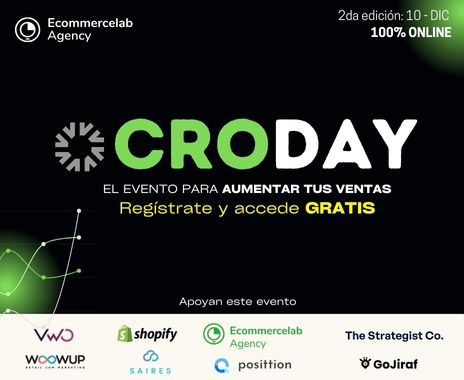
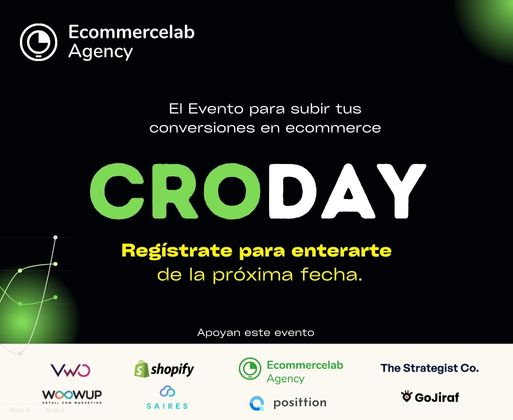
Primer actualizacion post evento

diff --git a/index.html b/index.html
@@ -15,7 +15,7 @@
     <link rel="preconnect" href="https://fonts.googleapis.com">
     <link rel="preconnect" href="https://fonts.gstatic.com" crossorigin>
     <link href="https://fonts.googleapis.com/css2?family=Lato:ital,wght@0,100;0,300;0,400;0,700;0,900;1,100;1,300;1,400;1,700;1,900&display=swap" rel="stylesheet">
-    <meta property="og:title" content="CRODAY - El evento para subir conversiones en Ecommerce">
+    <meta property="og:title" content="CRODAY 2024 | Optimiza Conversiones y Domina el A/B Testing en Ecommerce">
     <meta property="og:description" content="Llegó CRODAY 🎯: El evento de Iberoamérica para SUBIR CONVERSIONES EN ECOMMERCE.
     ¿Ya reservaste tu lugar y el de tu equipo?">
     <meta property="og:image" content="https://s3.sa-east-1.amazonaws.com/croday.org/img/Banner_mobile.jpg"/>
@@ -30,8 +30,8 @@
     height="0" width="0" style="display:none;visibility:hidden"></iframe></noscript>
     <!-- End Google Tag Manager (noscript) -->
     <header>
-        <a href="https://ecommercelab.agency/" target="_blank">
-        <img src="img/Banner_desktop.png" alt="banner CRODAY" class="bannerDesktop">
+        <a href="https://ecommercelab.agency/?utm_source=CRODAY&utm_medium=CRODAY&utm_campaign=CRODAY&utm_id=CRODAY&utm_term=CRODAY&utm_content=CRODAY" target="_blank">
+        <img src="img/Banner_desktop.jpg" alt="banner CRODAY" class="bannerDesktop">
         <img src="img/Banner_mobile.jpg" alt="banner CRODAY" class="bannerMobile">
         </a>
     </header>
@@ -85,15 +85,15 @@
         <section class="formulario">
             
                 <form action="" method="post" id="form">
-                    <h2>Reserva tu lugar</h2>
+                    <h2>Suscríbete para enterarte del próximo evento</h2>
                     <input type="text" name="email" id="email" placeholder="Tu email">
                     <span class="error" id="error"></span>
-                    <button type="submit">Regístrate Gratis</button>
+                    <button type="submit">Click Aquí</button>
                     <span class="tyc">* Al registrarse, los participantes aceptan estos <a href="/views/tyc.html" class="tycLink" target="_blank">términos y condiciones.</a></span>
                 </form>
         </section>
         <section class="text">
-            <h2>Llega el CRO DAY, el evento de optimización de conversiones dirigido a Directores de Retail, Equipos de Ecommerce y Dueños de empresas.</h2> 
+            <h1>Llega el CRO DAY, el evento de optimización de conversiones dirigido a Directores de Retail, Equipos de Ecommerce y Dueños de empresas.</h1> 
         <div id="seccionOradores"></div>
         </section>
         
@@ -101,16 +101,49 @@
             <h2>Oradores</h2>
             <div class="oradoresArt">
                 <article>
-                    <a href="https://www.linkedin.com/in/%C3%B3scar-garnica-098754187/?originalSubdomain=mx" target="_blank">
-                        <img src="img/speakers/Avatar-Oscar_GarnicaMotorola.CRODAY.png" alt="avatar Oscar Garnica">
+                    <a href="https://www.linkedin.com/in/rodolfoguardia/?originalSubdomain=ar" target="_blank">
+                        <img src="img/speakers/Avatar-Rodolfo.Guardia.CRODAY.Ecommercelab.png" alt="avatar Rodolfo Guardia">
                         <div>
-                            <h3 class="ocultarLinkedin">Oscar Garnica <br><span>Motorola Mobility (a Lenovo Company)</span></h3>
+                            <h3 class="ocultarLinkedin">Rodolfo Guardia <br><span>EcommerceLab Agency</span></h3>
+                            <br>
                             <br>
                             <h3 class="verLinkedin gradient-text">Ver Linkedin</h3>
                         </div>
                     </a>
                 </article>
-                
+                <article>
+                    <a href="https://www.linkedin.com/in/drieraocampos/" target="_blank">
+                        <img src="img/speakers/avatar_delfina_ocampos_2.jpg" alt="avatar Delfina Riera">
+                        <div>
+                            <h3 class="ocultarLinkedin">Delfina Riera Ocampos <br><span>EcommerceLab Agency</span></h3>
+                            <br>
+                            <br>
+                            <h3 class="verLinkedin gradient-text">Ver Linkedin</h3>
+                        </div>
+                    </a>
+                </article>
+                <article>
+                    <a href="https://www.linkedin.com/in/silvajuan1989/" target="_blank">
+                        <img src="img/speakers/Avatar-Juan-Silva-EcommerceLab.Agency.CRODAY.png" alt="avatar Juan Pablo Silva">
+                        <div>
+                            <h3 class="ocultarLinkedin">Juan Pablo Silva <br> <span>EcommerceLab Agency</span></h3>
+                            <br>
+                            <br>
+                            <h3 class="verLinkedin gradient-text">Ver Linkedin</h3>
+                        </div>
+                    </a>
+                </article>
+                <article>
+                    <a href="https://www.linkedin.com/in/tom%C3%A1s-caia-305b38204/?originalSubdomain=ar" target="_blank">
+                        <img src="img/speakers/Avatar-Tomas-Caia.CRODAY.Google.png" alt="avatar Tomas Caia">
+                        <div>
+                            <h3 class="ocultarLinkedin">Tomas Caia <br><span>Google</span></h3>
+                            <br>
+                            <br>
+                            <h3 class="verLinkedin gradient-text">Ver Linkedin</h3>
+                        </div>
+                    </a>
+                </article>
                 <article>
                     <a href="https://www.linkedin.com/in/maria-sol-sanchez-souto-47b69652/?originalSubdomain=ar" target="_blank">
                         <img src="img/speakers/Avatar-Sol.Sánchez_WoowUp.CRODAY.png" alt="avatar Sol Sanchez">
@@ -177,50 +210,19 @@
                         </div>
                     </a>
                 </article>
+               
                 <article>
-                    <a href="https://www.linkedin.com/in/tom%C3%A1s-caia-305b38204/?originalSubdomain=ar" target="_blank">
-                        <img src="img/speakers/Avatar-Tomas-Caia.CRODAY.Google.png" alt="avatar Tomas Caia">
+                    <a href="https://www.linkedin.com/in/%C3%B3scar-garnica-098754187/?originalSubdomain=mx" target="_blank">
+                        <img src="img/speakers/Avatar-Oscar_GarnicaMotorola.CRODAY.png" alt="avatar Oscar Garnica">
                         <div>
-                            <h3 class="ocultarLinkedin">Tomas Caia <br><span>Google</span></h3>
-                            <br>
+                            <h3 class="ocultarLinkedin">Oscar Garnica <br><span>Motorola Mobility (a Lenovo Company)</span></h3>
                             <br>
                             <h3 class="verLinkedin gradient-text">Ver Linkedin</h3>
                         </div>
                     </a>
                 </article>
-                <article>
-                    <a href="https://www.linkedin.com/in/rodolfoguardia/?originalSubdomain=ar" target="_blank">
-                        <img src="img/speakers/Avatar-Rodolfo.Guardia.CRODAY.Ecommercelab.png" alt="avatar Rodolfo Guardia">
-                        <div>
-                            <h3 class="ocultarLinkedin">Rodolfo Guardia <br><span>EcommerceLab Agency</span></h3>
-                            <br>
-                            <br>
-                            <h3 class="verLinkedin gradient-text">Ver Linkedin</h3>
-                        </div>
-                    </a>
-                </article>
-                <article>
-                    <a href="https://www.linkedin.com/in/silvajuan1989/" target="_blank">
-                        <img src="img/speakers/Avatar-Juan-Silva-EcommerceLab.Agency.CRODAY.png" alt="avatar Juan Pablo Silva">
-                        <div>
-                            <h3 class="ocultarLinkedin">Juan Pablo Silva <br> <span>EcommerceLab Agency</span></h3>
-                            <br>
-                            <br>
-                            <h3 class="verLinkedin gradient-text">Ver Linkedin</h3>
-                        </div>
-                    </a>
-                </article>
-                <article>
-                    <a href="https://www.linkedin.com/in/drieraocampos/" target="_blank">
-                        <img src="img/speakers/avatar_delfina_ocampos_2.jpg" alt="avatar Delfina Riera">
-                        <div>
-                            <h3 class="ocultarLinkedin">Delfina Riera Ocampos <br><span>EcommerceLab Agency</span></h3>
-                            <br>
-                            <br>
-                            <h3 class="verLinkedin gradient-text">Ver Linkedin</h3>
-                        </div>
-                    </a>
-                </article>
+                
+                
             </div>
             
         </section>
@@ -359,14 +361,14 @@
         </section>
     </main>
     <footer>
-        <a target="_blank" href="https://ecommercelab.agency/"><img src="img/Logos/EcommerceLab.Agency logo.png" alt="logo EcommerceLab Agency"></a>
-        <a target="_blank" href=""><img src="/img/Logos/GoJiraf_Logo.png" alt="Logo GoJiraf"></a>
-        <a target="_blank" href=""><img src="/img/Logos/Posittion_logo.png" alt="Logo Position"></a>
-        <a target="_blank" href=""><img src="/img/Logos/Saires_Logo.png" alt="Logo Saires"></a>
-        <a target="_blank" href=""><img src="/img/Logos/Shopify_Logo.png" alt="Logo Shopify"></a>
-        <a target="_blank" href=""><img src="/img/Logos/The_Strategist_Logo.png" alt="Logo The Strategist"></a>
-        <a target="_blank" href=""><img src="/img/Logos/VWO_Logo.png" alt="Logo VWO"></a>
-        <a target="_blank" href=""><img src="/img/Logos/WoowUp_Logo.png" alt="Logo WoowUp"></a>
+        <a target="_blank" href="https://ecommercelab.agency/?utm_source=CRODAY&utm_medium=CRODAY&utm_campaign=CRODAY&utm_id=CRODAY&utm_term=CRODAY&utm_content=CRODAY"><img src="img/Logos/EcommerceLab.Agency logo.png" alt="logo EcommerceLab Agency"></a>
+        <a target="_blank" rel="nofollow" href="https://gojiraf.ai/"><img src="/img/Logos/GoJiraf_Logo.png" alt="Logo GoJiraf"></a>
+        <a target="_blank" rel="nofollow" href=""><img src="/img/Logos/Posittion_logo.png" alt="Logo Position"></a>
+        <a target="_blank" rel="nofollow" href=""><img src="/img/Logos/Saires_Logo.png" alt="Logo Saires"></a>
+        <a target="_blank" rel="nofollow" href=""><img src="/img/Logos/Shopify_Logo.png" alt="Logo Shopify"></a>
+        <a target="_blank" rel="nofollow" href=""><img src="/img/Logos/The_Strategist_Logo.png" alt="Logo The Strategist"></a>
+        <a target="_blank" rel="nofollow" href=""><img src="/img/Logos/VWO_Logo.png" alt="Logo VWO"></a>
+        <a target="_blank" rel="nofollow" href=""><img src="/img/Logos/WoowUp_Logo.png" alt="Logo WoowUp"></a>
     </footer>
 
     <script src="js/sweetalert2.min.js"></script>

diff --git a/views/tyc.html b/views/tyc.html
@@ -21,7 +21,7 @@
 <body>
     <header>
         <a href="../index.html">
-        <img src="../img/Banner_desktop.png" alt="banner CRODAY" class="bannerDesktop">
+        <img src="../img/Banner_desktop.jpg" alt="banner CRODAY" class="bannerDesktop">
         <img src="../img/Banner_mobile.jpg" alt="banner CRODAY" class="bannerMobile">
         </a>  
     </header>
@@ -48,14 +48,14 @@
     
     </main>
     <footer>
-        <img src="../img/Logos/EcommerceLab.Agency logo.png" alt="logo EcommerceLab Agency">
-        <img src="../img/Logos/GoJiraf_Logo.png" alt="Logo GoJiraf">
-        <img src="../img/Logos/Posittion_logo.png" alt="Logo Position">
-        <img src="../img/Logos/Saires_Logo.png" alt="Logo Saires">
-        <img src="../img/Logos/Shopify_Logo.png" alt="Logo Shopify">
-        <img src="../img/Logos/The_Strategist_Logo.png" alt="Logo The Strategist">
-        <img src="../img/Logos/VWO_Logo.png" alt="Logo VWO">
-        <img src="../img/Logos/WoowUp_Logo.png" alt="Logo WoowUp">
+        <a href="https://ecommercelab.agency/?utm_source=CRODAY&utm_medium=CRODAY&utm_campaign=CRODAY&utm_id=CRODAY&utm_term=CRODAY&utm_content=CRODAY" target="_blank"><img src="../img/Logos/EcommerceLab.Agency logo.png" alt="logo EcommerceLab Agency"></a>
+        <a href="" target="_blank"><img src="../img/Logos/GoJiraf_Logo.png" alt="Logo GoJiraf"></a>
+        <a href="" target="_blank"><img src="../img/Logos/Posittion_logo.png" alt="Logo Position"></a>
+        <a href="" target="_blank"><img src="../img/Logos/Saires_Logo.png" alt="Logo Saires"></a>
+        <a href="" target="_blank"><img src="../img/Logos/Shopify_Logo.png" alt="Logo Shopify"></a>
+        <a href="" target="_blank"><img src="../img/Logos/The_Strategist_Logo.png" alt="Logo The Strategist"></a>
+        <a href="" target="_blank"><img src="../img/Logos/VWO_Logo.png" alt="Logo VWO"></a>
+        <a href="" target="_blank"><img src="../img/Logos/WoowUp_Logo.png" alt="Logo WoowUp"></a>
     </footer>
     
 </body>

diff --git a/css/tyc.css b/css/tyc.css
@@ -4,10 +4,14 @@
     box-sizing: border-box;
 }
 
+body {
+    font-family: Arial, Helvetica, sans-serif;
+}
+
 h1 {
     font-size: 30px;
     text-align: center;
-    margin-top: 20px;
+    margin-top: 50px;
 }
 
 ol {
@@ -37,8 +41,12 @@ footer {
     background-image: linear-gradient(to bottom, #94dc9e, #cafee0, #e1f7ea, #ffffff, #ffffff, #ffffff, #ffffff, #ffffff, #ffffff, #e0e2f7, #d0c9f8, #abaef4);
 }
 
-footer img {
+footer a {
     width: 10%;
+}
+
+footer a img {
+    width: 100%;
 }
 
 @media(max-width: 700px) {

diff --git a/css/style.css b/css/style.css
@@ -155,7 +155,7 @@ main section.formulario div {
 
 main section.formulario h2 {
     text-align: center;
-    font-size: 40px;
+    font-size: 32px;
 }
 
 main section.formulario form {
